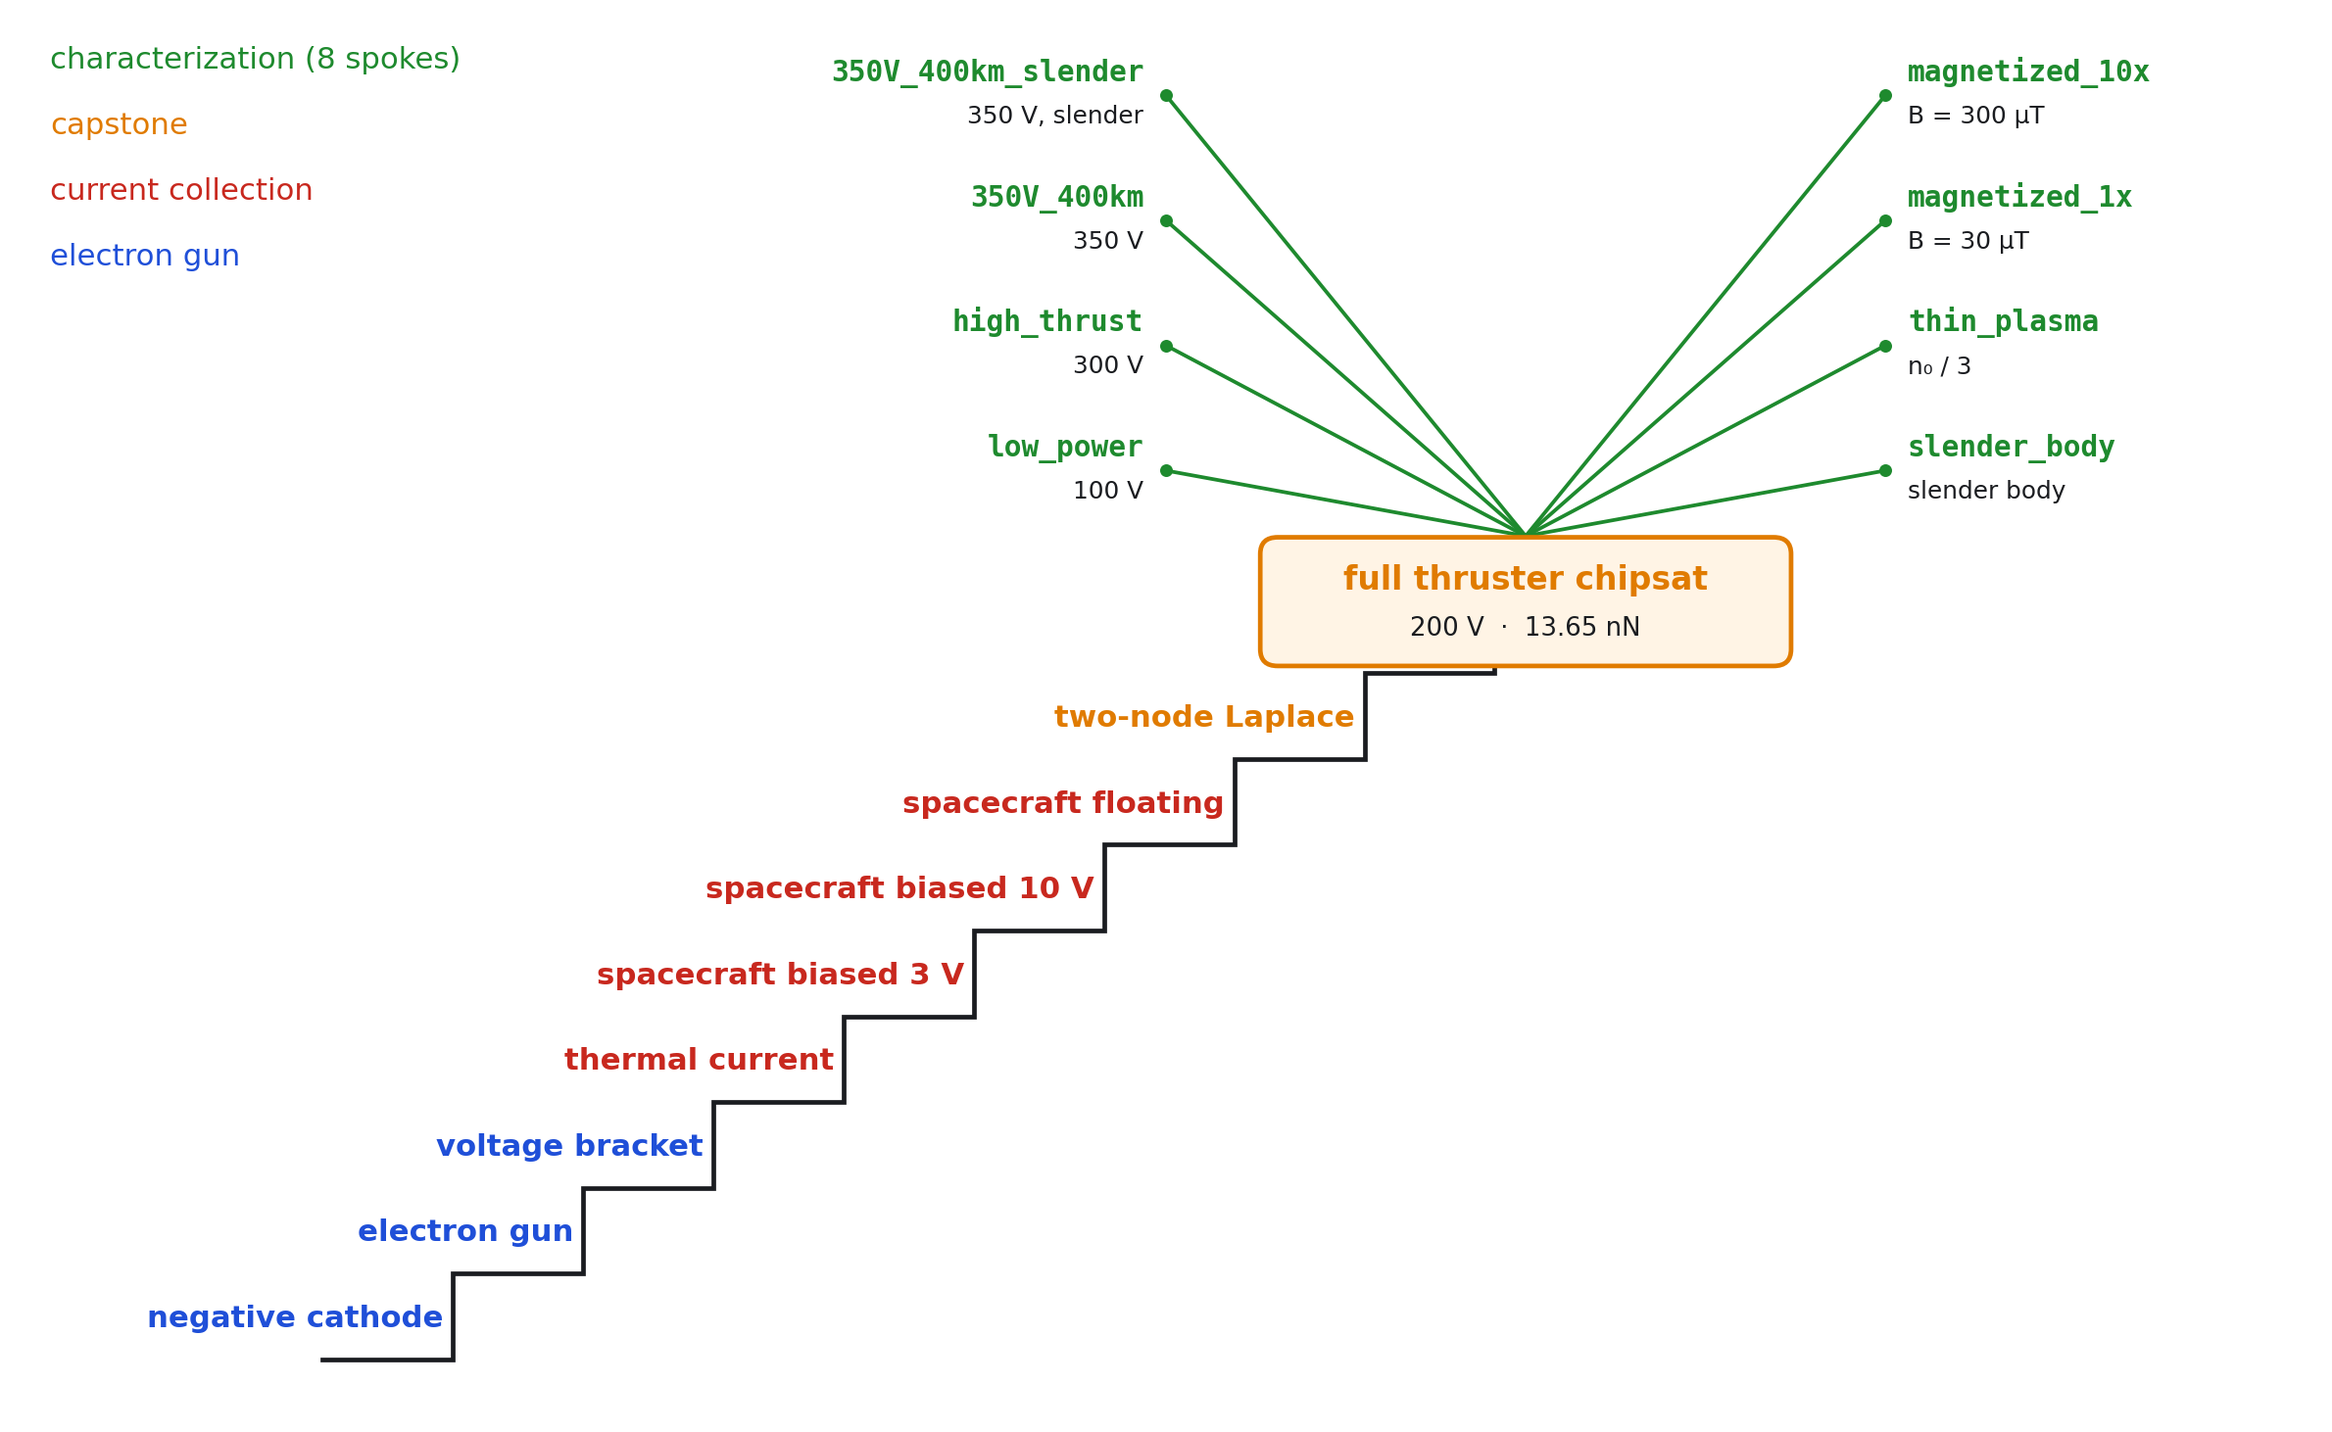
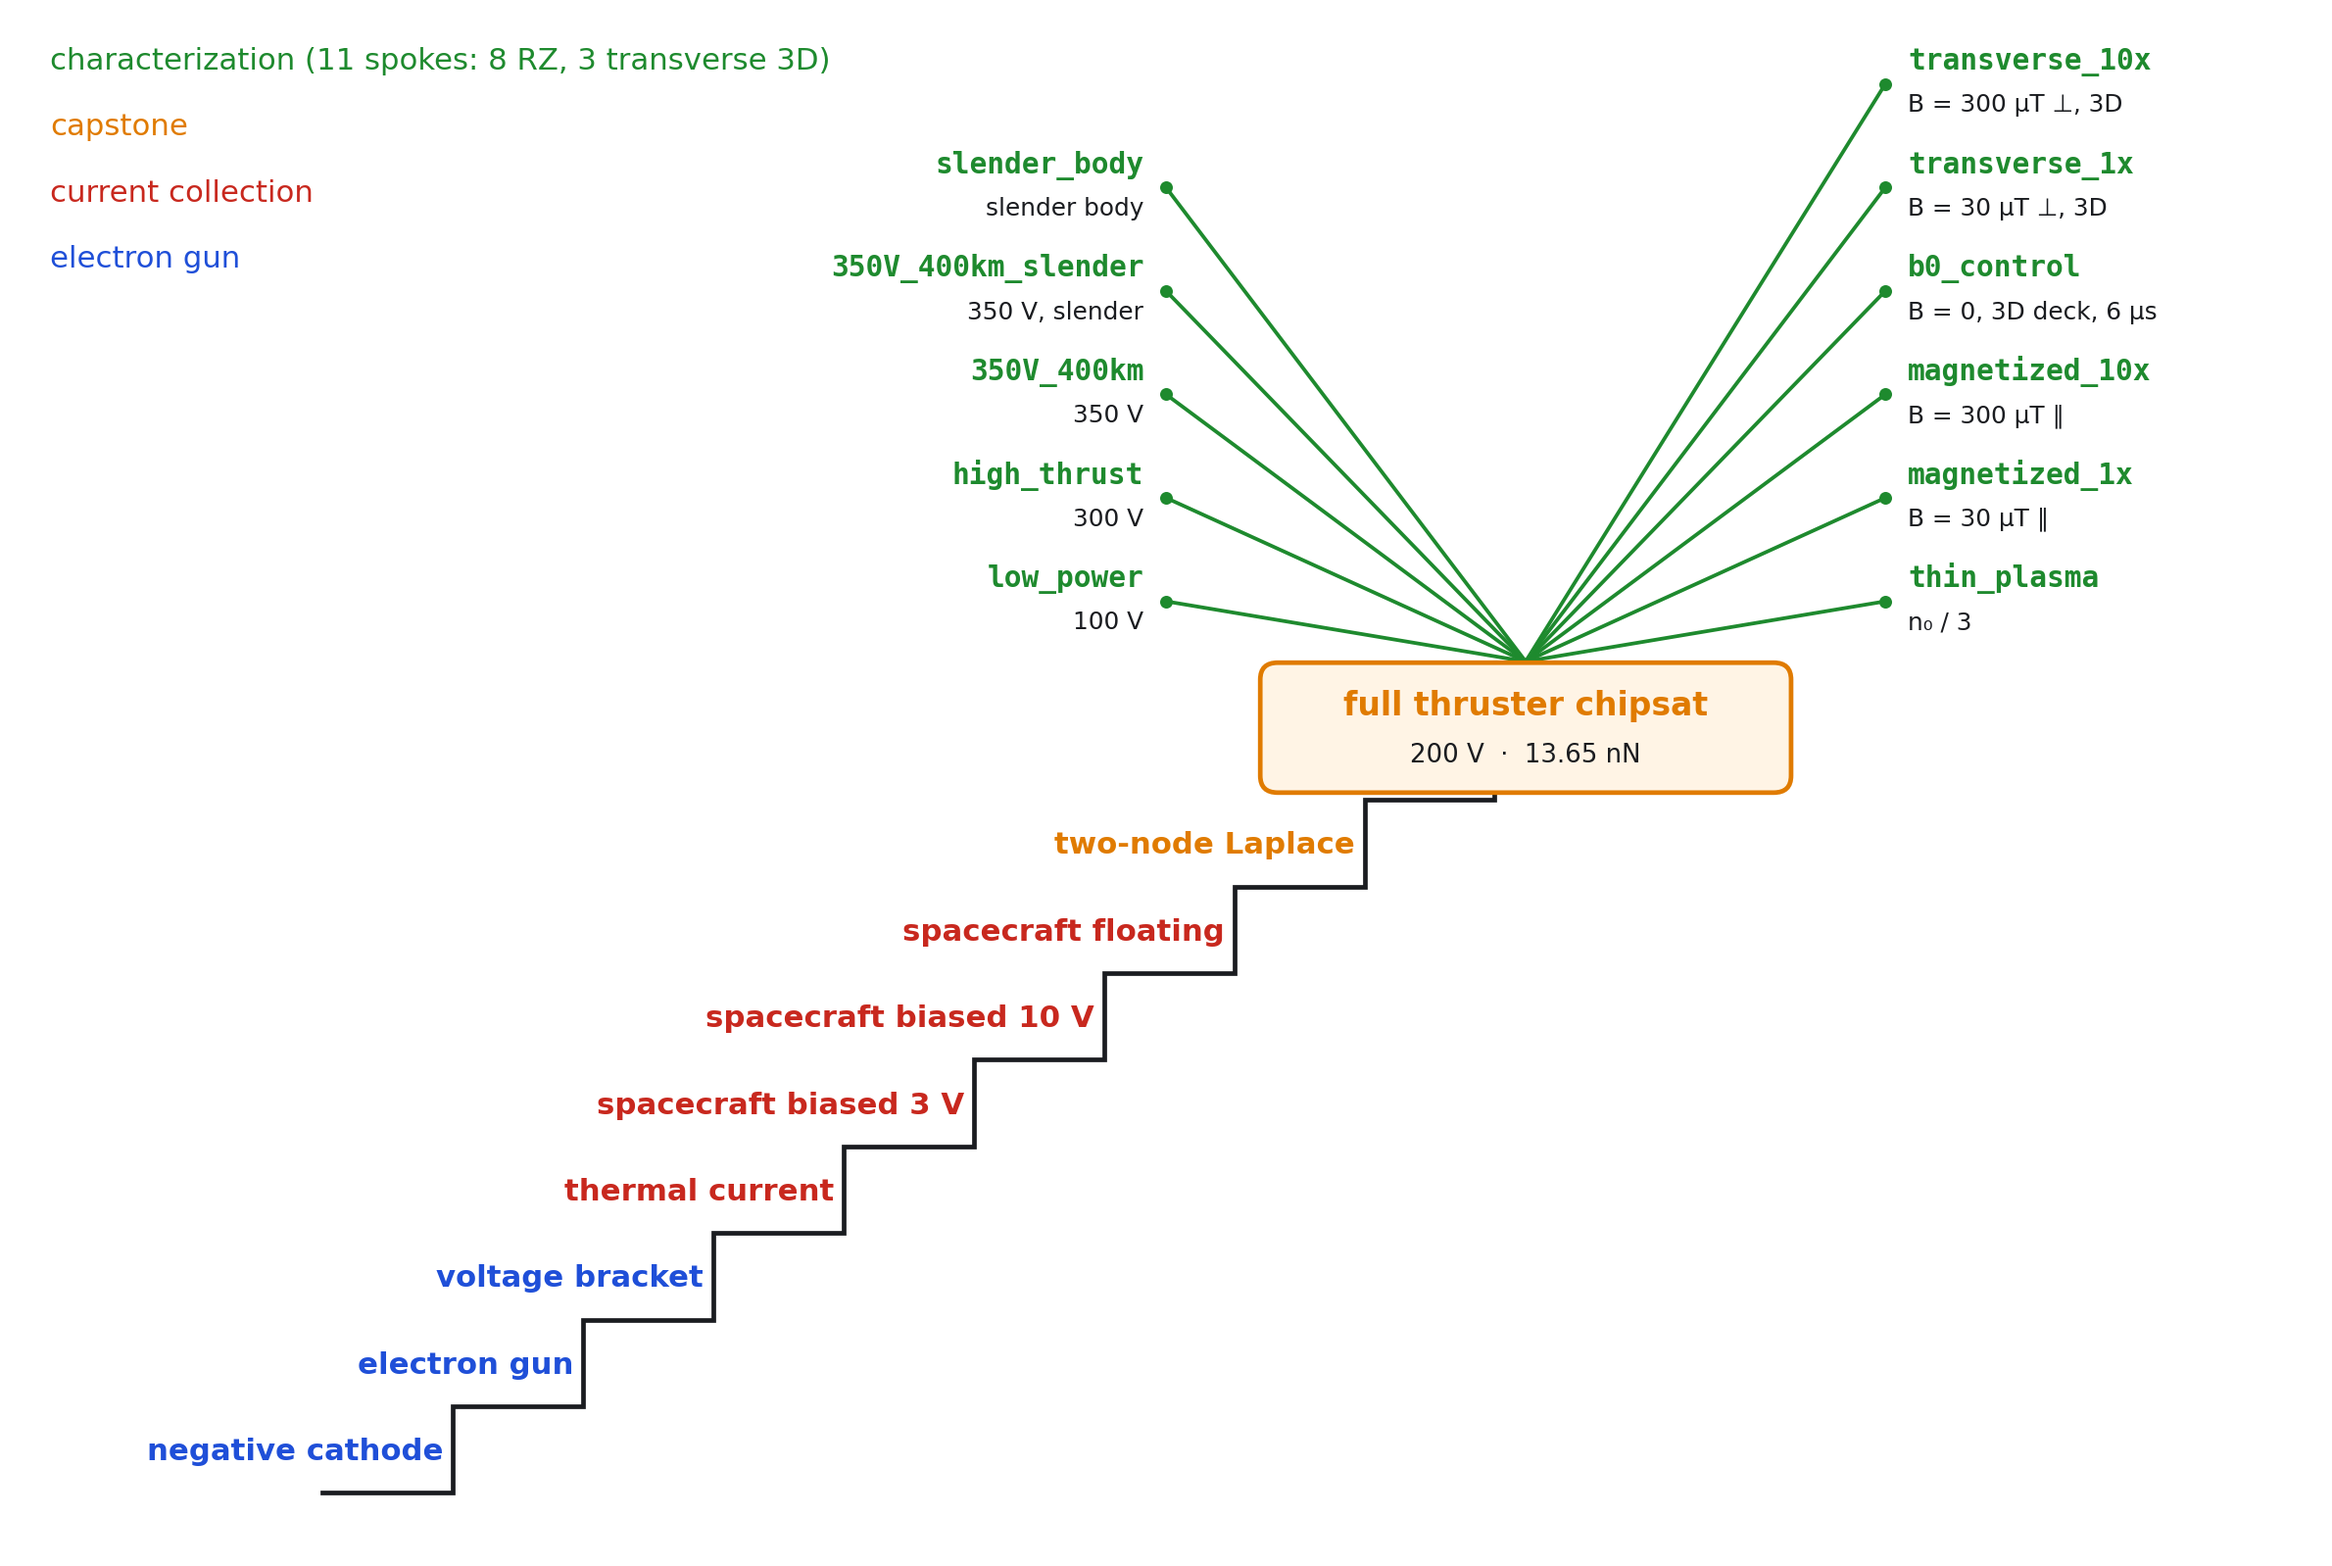
updating doc

Changed region(s): [[0.0, 0.0308, 0.9328, 0.9542]]

diff --git a/paper/figs/make_ladder.py b/paper/figs/make_ladder.py
@@ -4,8 +4,12 @@
 Schematic (not data-encoded). Nine ladder stages climb a staircase from the
 vacuum electron gun to the full floating thruster (the 200 V anchor). Eight
 characterization spokes fan out from that anchor; each moves one physics axis
-and keeps everything else verbatim. Numbers are the headline result of each
-stage / spoke as reported in README.md and pic_sims/ladder/LADDER_SUMMARY.md.
+and keeps everything else verbatim: eight on the RZ deck, three from the
+tier M2 transverse-field campaign (the same body in a Cartesian 3D deck with
+B perpendicular to the beam, the flight orientation the RZ decks cannot hold).
+Numbers are the headline result of each stage / spoke as reported in
+README.md, pic_sims/ladder/LADDER_SUMMARY.md and
+pic_sims/characterization/magnetized_transverse/README.md.
 
     python3 paper/figs/make_ladder.py
     -> paper/imgs/ladder_characterization.png
@@ -40,21 +44,27 @@ LADDER = [
 ]
 ANCHOR = ("full thruster chipsat", "200 V  ·  13.65 nN")
 
-# (label, axis changed, headline result) -- drawn left to right across the fan
+# (label, axis changed, headline result) -- left column bottom to top, then right column
+# bottom to top. The last three are the tier M2 transverse-field campaign (Cartesian 3D deck,
+# pic_sims/characterization/magnetized_transverse/, scenario names as in its config).
 SPOKES = [
-    ("low_power",          "100 V",              "3.42 nN,  φ = 5.4 V"),
-    ("high_thrust",        "300 V",              "30.13 nN,  φ = 36.3 V"),
-    ("350V_400km",         "350 V",              "40.48 nN,  φ = 48.3 V (on 50 V limit)"),
-    ("350V_400km_slender", "350 V, slender",    "43.33 nN,  φ = 14.0 V"),
-    ("slender_body",       "slender body",       "14.22 nN,  φ = 4.4 V"),
-    ("thin_plasma",        "n₀ / 3",       "12.39 nN,  φ = 42.5 V"),
-    ("magnetized_1x",      "B = 30 µT", "13.64 nN — null, anchor unchanged"),
-    ("magnetized_10x",     "B = 300 µT",         "−11 % thrust,  φ +33 V"),
+    ("low_power",          "100 V",                   "3.42 nN,  φ = 5.4 V"),
+    ("high_thrust",        "300 V",                   "30.13 nN,  φ = 36.3 V"),
+    ("350V_400km",         "350 V",                   "40.48 nN,  φ = 48.3 V (on 50 V limit)"),
+    ("350V_400km_slender", "350 V, slender",          "43.33 nN,  φ = 14.0 V"),
+    ("slender_body",       "slender body",            "14.22 nN,  φ = 4.4 V"),
+    ("thin_plasma",        "n₀ / 3",                  "12.39 nN,  φ = 42.5 V"),
+    ("magnetized_1x",      "B = 30 µT ∥",             "13.64 nN — null, anchor unchanged"),
+    ("magnetized_10x",     "B = 300 µT ∥",            "−11 % thrust,  φ +33 V"),
+    ("b0_control",         "B = 0, 3D deck, 6 µs",    "φ 26.8 V,  13.91 nN: closes on the anchor within 2 %"),
+    ("transverse_1x",      "B = 30 µT ⊥, 3D",         "null: ΔF −0.8 %,  Δφ +2.6 V"),
+    ("transverse_10x",     "B = 300 µT ⊥, 3D",        "no equilibrium: chokes through the 150 V ceiling"),
 ]
+N_LEFT = 5   # spokes in the left column; the rest go right
 
-fig, ax = plt.subplots(figsize=(14.0, 8.6))
+fig, ax = plt.subplots(figsize=(14.0, 9.4))
 ax.set_xlim(-0.8, 17.6)
-ax.set_ylim(-0.4, 11.2)
+ax.set_ylim(-0.4, 12.2)
 ax.axis("off")
 
 # ---------------------------------------------------------------- staircase
@@ -91,11 +101,11 @@ ax.text(ax_x, ax_y + 0.10 + box_h * 0.27, ANCHOR[1], ha="center", va="center", f
 
 # ---------------------------------------------------------------- spokes (two columns)
 hub = (ax_x, ax_y + 0.10 + box_h + 0.05)
-ROW_DY, Y_BASE = 1.05, hub[1] + 0.55
+ROW_DY, Y_BASE = 0.86, hub[1] + 0.50
 COL_DX = 2.9   # dot offset from the hub, left column negative / right column positive
 for k, (name, axis, result) in enumerate(SPOKES):
-    col, row = divmod(k, 4)             # first four spokes left, last four right
-    side = -1 if col == 0 else 1
+    side = -1 if k < N_LEFT else 1
+    row = k if k < N_LEFT else k - N_LEFT
     dx, dy = side * COL_DX, Y_BASE + row * ROW_DY
     ax.plot([hub[0], hub[0] + dx], [hub[1], dy], color=GREEN, lw=1.6, zorder=1)
     ax.plot(hub[0] + dx, dy, "o", ms=4.5, color=GREEN, zorder=2)
@@ -106,8 +116,8 @@ for k, (name, axis, result) in enumerate(SPOKES):
     ax.text(tx, dy - 0.08, axis, ha=ha, va="top", fontsize=10.5, color=INK)
 
 # ---------------------------------------------------------------- legend / key
-kx, ky = -0.6, 10.9
-for label, colour in [("characterization (8 spokes)", GREEN),
+kx, ky = -0.6, 11.9
+for label, colour in [("characterization (11 spokes: 8 RZ, 3 transverse 3D)", GREEN),
                       ("capstone", AMBER),
                       ("current collection", RED),
                       ("electron gun", BLUE)]:
